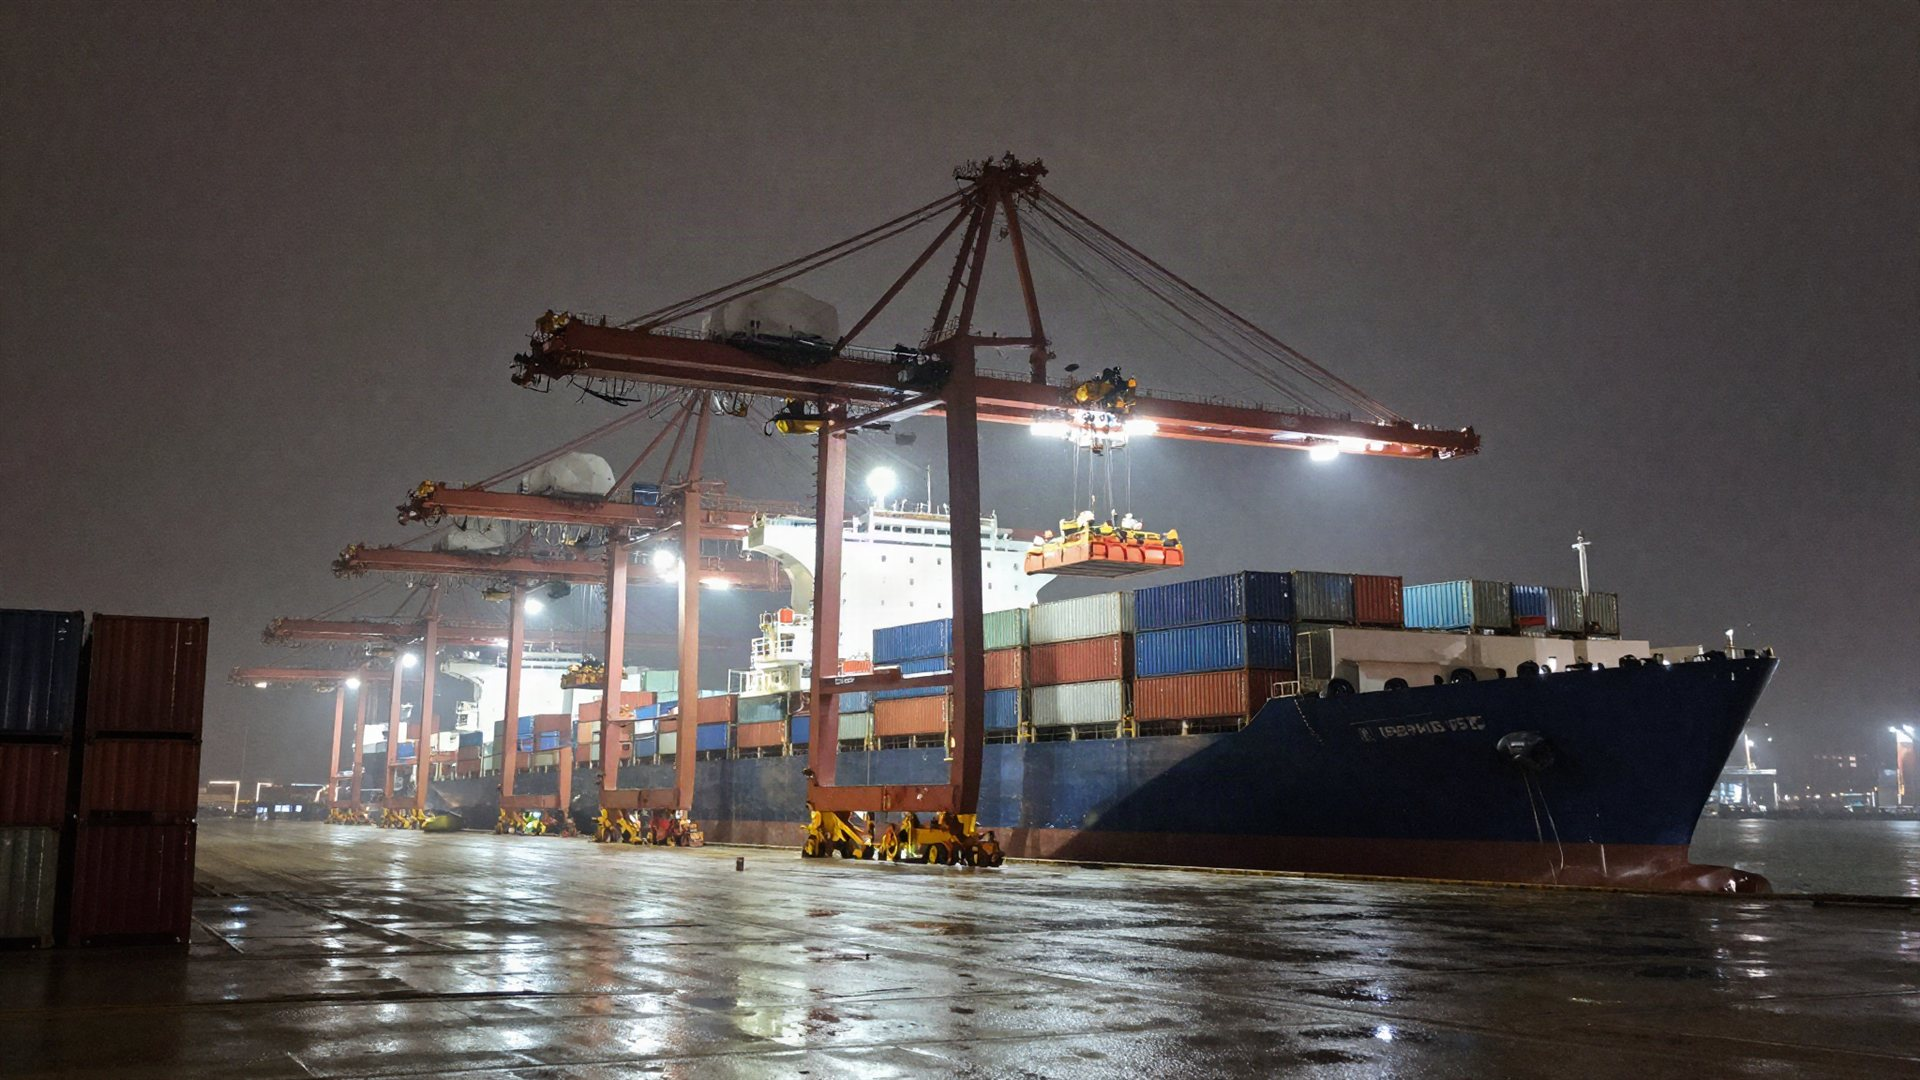
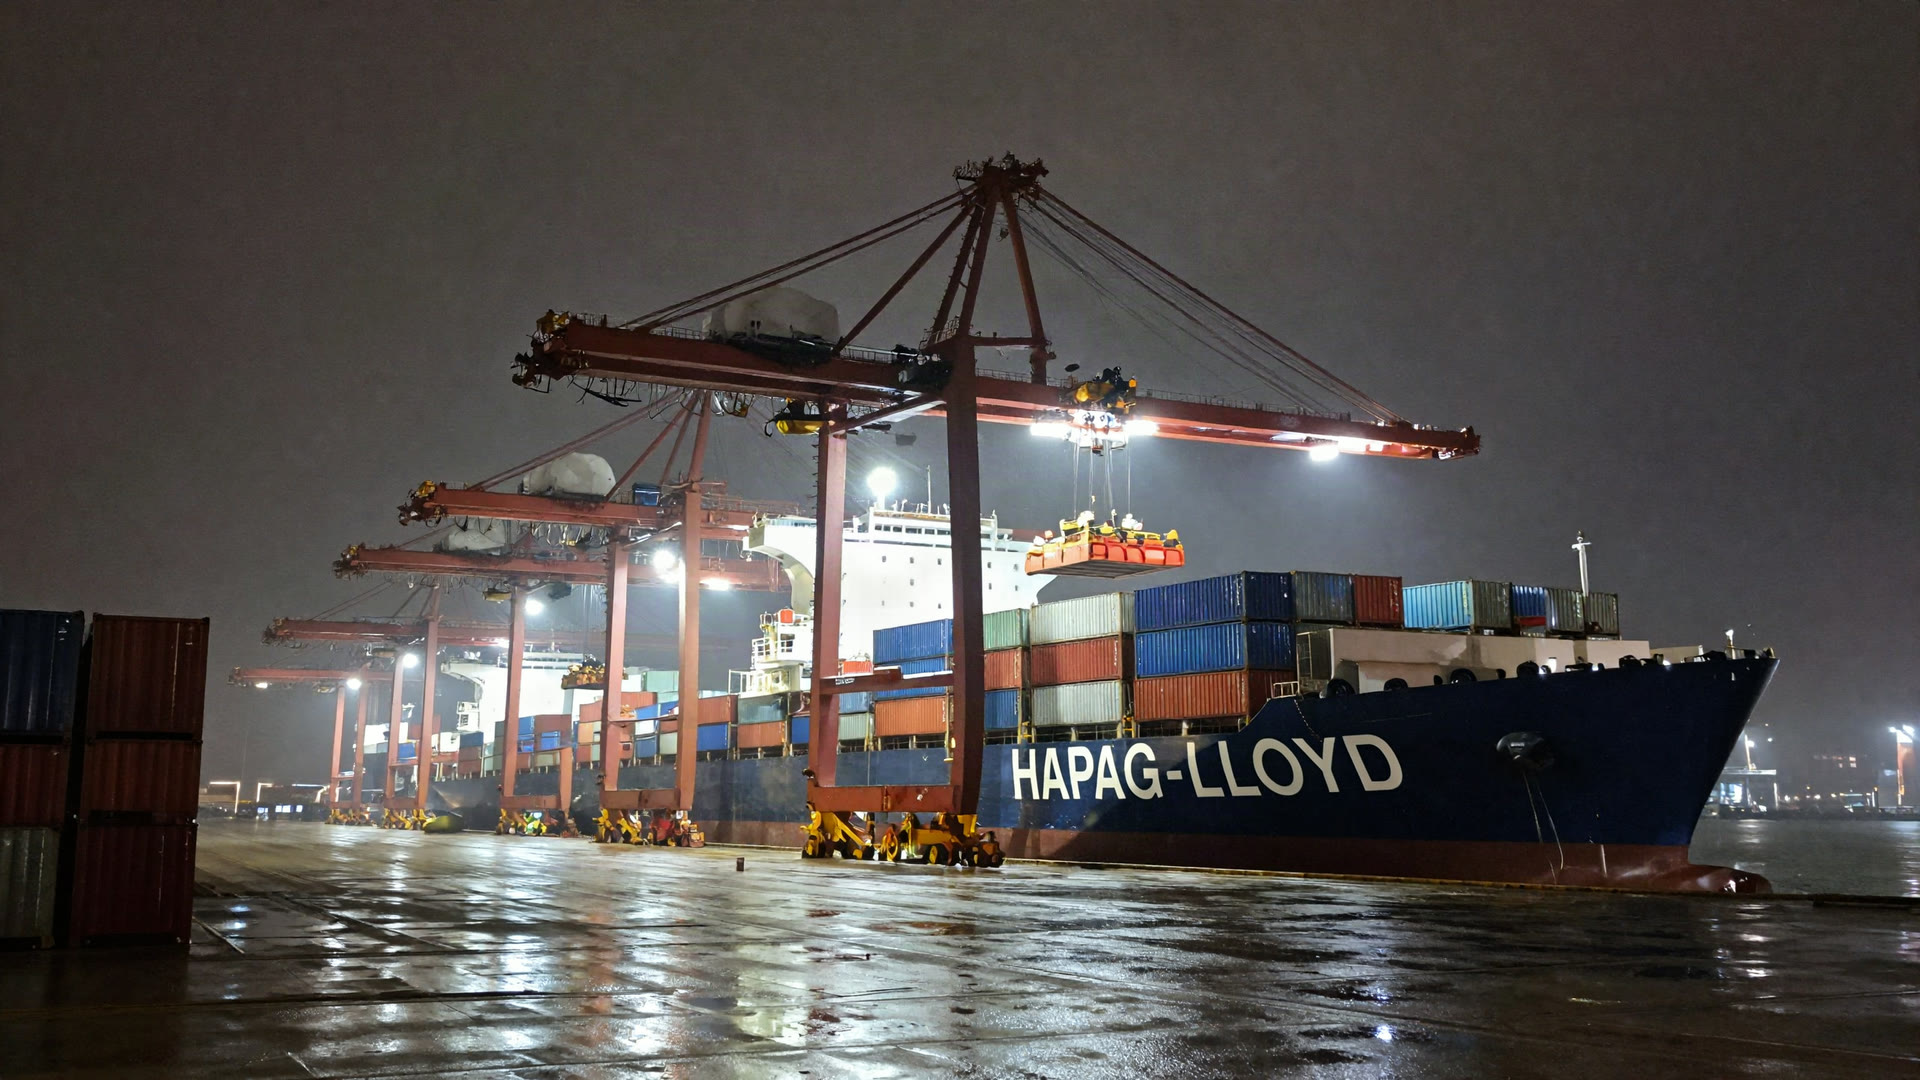
feat: s03 and s07 plates with HAPAG-LLOYD on the hull (Ideogram 4.5 edits, 0.5 credits)

diff --git a/docs/credit-ledger.md b/docs/credit-ledger.md
@@ -21,6 +21,8 @@ working setting, state the quoted cost and wait for an explicit "yes". Never gue
 | 2026-11-15 | s01 v2 realistic (compare) | seedream_5_0_flash, 1k, 16:9 (job 1e6ab903; first try 429 rate limit, not charged) | 0.5 | 0.5 | 8.30 (checked) | owner, "Thử cả ba, so sánh" |
 | 2026-11-15 | s01-s07 v3 realistic, light wear | z_image, 16:9, 7 images one at a time (batch of 7: 6 refused with 429, not charged) | 1.05 | 1.05 | 7.25 (checked) | owner, "sửa các plate ... trông thật hơn ... ưu tiên tối ưu điểm credit" |
 | 2026-11-15 | s01 v4, HAPAG-LLOYD on hull (edit of v3) | ideogram_4_5, very_low, 2k, magic_prompt off (job f9fa1938) | 0.25 | 0.25 | 7.00 (checked) | owner, "Thử s01 trước" |
+| 2026-11-15 | s03 v4, HAPAG-LLOYD on hull (edit of v3) | ideogram_4_5, very_low, 2k, magic_prompt off (job 9606dca6) | 0.25 | 0.25 | 6.75 | owner, "Yes, làm s03 và s07" |
+| 2026-11-15 | s07 v4, HAPAG-LLOYD on hull (edit of v3) | ideogram_4_5, very_low, 2k, magic_prompt off (job f6606ac0) | 0.25 | 0.25 | 6.50 (checked) | owner, "Yes, làm s03 và s07" |
 
 Free plan runs one Higgsfield job at a time; submit sequentially.
 
